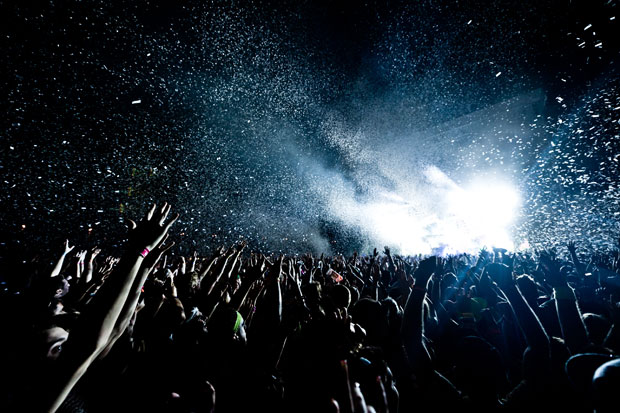
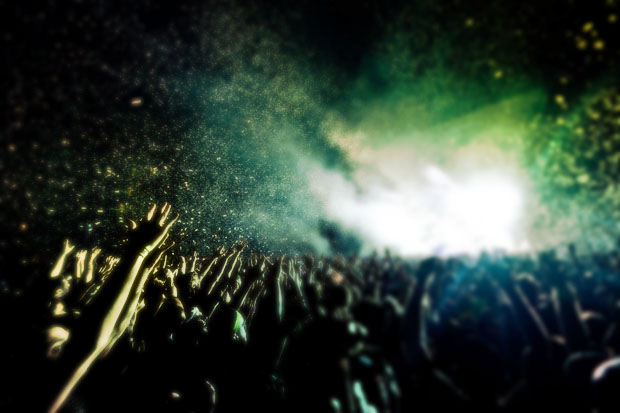
Better color scheme, some fixed links

diff --git a/app/assets/stylesheets/custom.css.scss b/app/assets/stylesheets/custom.css.scss
@@ -2,6 +2,48 @@
 
 /* mixins, variables, etc. */
 
+.btn-custom-darken.active {
+  color: rgba(255, 255, 255, 0.75);
+}
+.btn-custom-darken {
+  color: #ffffff;
+  text-shadow: 0 -1px 0 rgba(0, 0, 0, 0.25);
+  background-color: #00b807;
+  background-image: -moz-linear-gradient(top, #00cc08, #009906);
+  background-image: -webkit-gradient(linear, 0 0, 0 100%, from(#00cc08), to(#009906));
+  background-image: -webkit-linear-gradient(top, #00cc08, #009906);
+  background-image: -o-linear-gradient(top, #00cc08, #009906);
+  background-image: linear-gradient(to bottom, #00cc08, #009906);
+  background-repeat: repeat-x;
+  filter: progid:DXImageTransform.Microsoft.gradient(startColorstr='#ff00cc08', endColorstr='#ff009906', GradientType=0);
+  border-color: #009906 #009906 #004d03;
+  border-color: rgba(0, 0, 0, 0.1) rgba(0, 0, 0, 0.1) rgba(0, 0, 0, 0.25);
+  *background-color: #009906;
+  /* Darken IE7 buttons by default so they stand out more given they won't have borders */
+
+  filter: progid:DXImageTransform.Microsoft.gradient(enabled = false);
+}
+.btn-custom-darken:hover,
+.btn-custom-darken:focus,
+.btn-custom-darken:active,
+.btn-custom-darken.active,
+.btn-custom-darken.disabled,
+.btn-custom-darken[disabled] {
+  color: #ffffff;
+  background-color: #009906;
+  *background-color: #008005;
+}
+.btn-custom-darken:active,
+.btn-custom-darken.active {
+  background-color: #006604 ;
+}
+
+
+
+
+
+
+
 .home_link {
  width: 960px;
  height:622px;
@@ -18,7 +60,10 @@
 }
 
 #ticketChoiceBox {
-  width:400px;
+  margin:0 auto;
+  text-align: center;
+  width:500px;
+
 }
 
 .home-background {

diff --git a/app/controllers/users_controller.rb b/app/controllers/users_controller.rb
@@ -14,8 +14,7 @@ class UsersController < ApplicationController
     @user = User.new(params[:user])
     if @user.save
       sign_in @user
-      flash[:success] = "Step 1 Complete!"
-      redirect_to creditcard_path
+      redirect_to ticketnumber_path
     else
       render 'new'
     end
